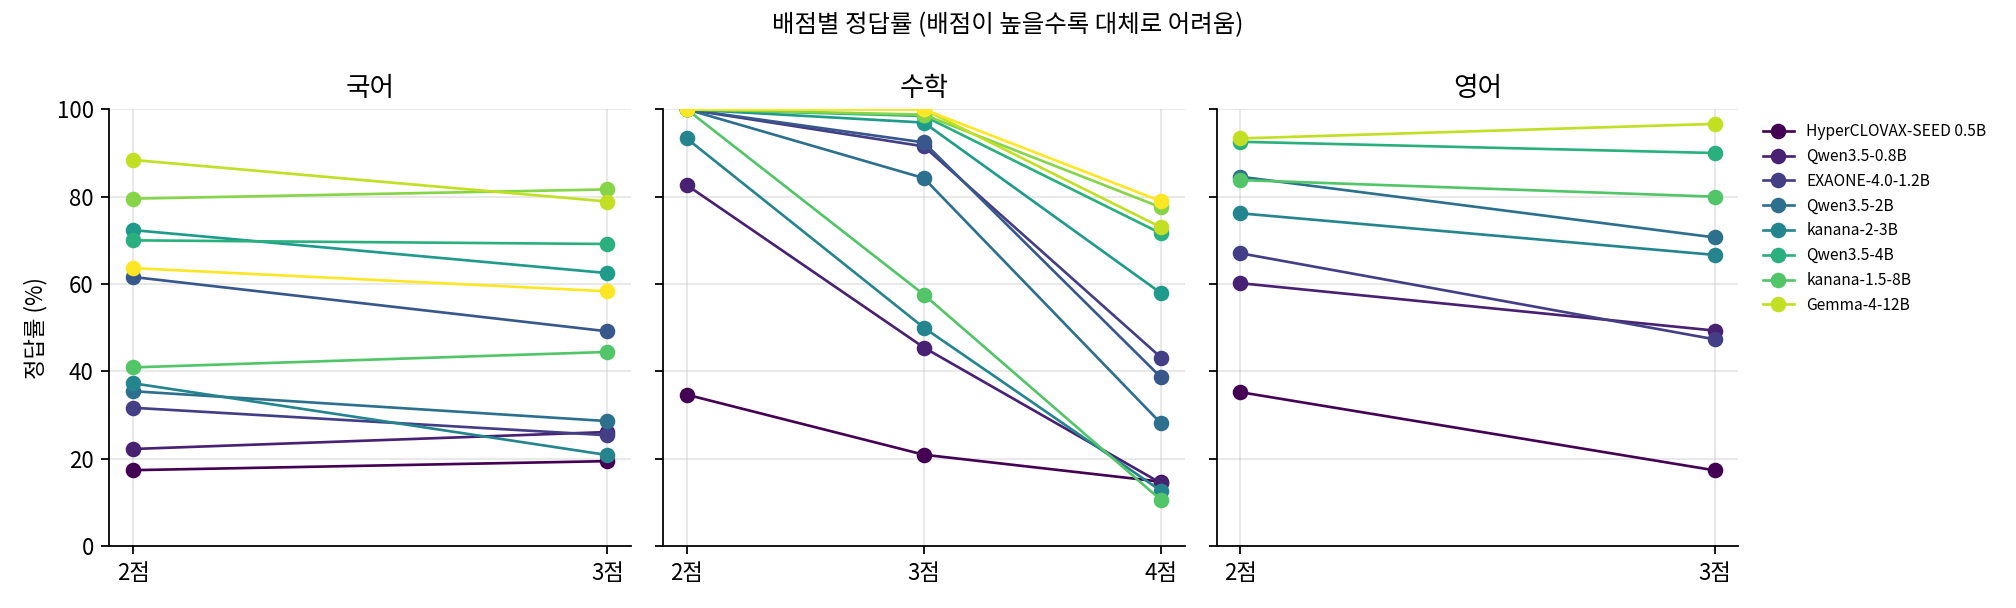
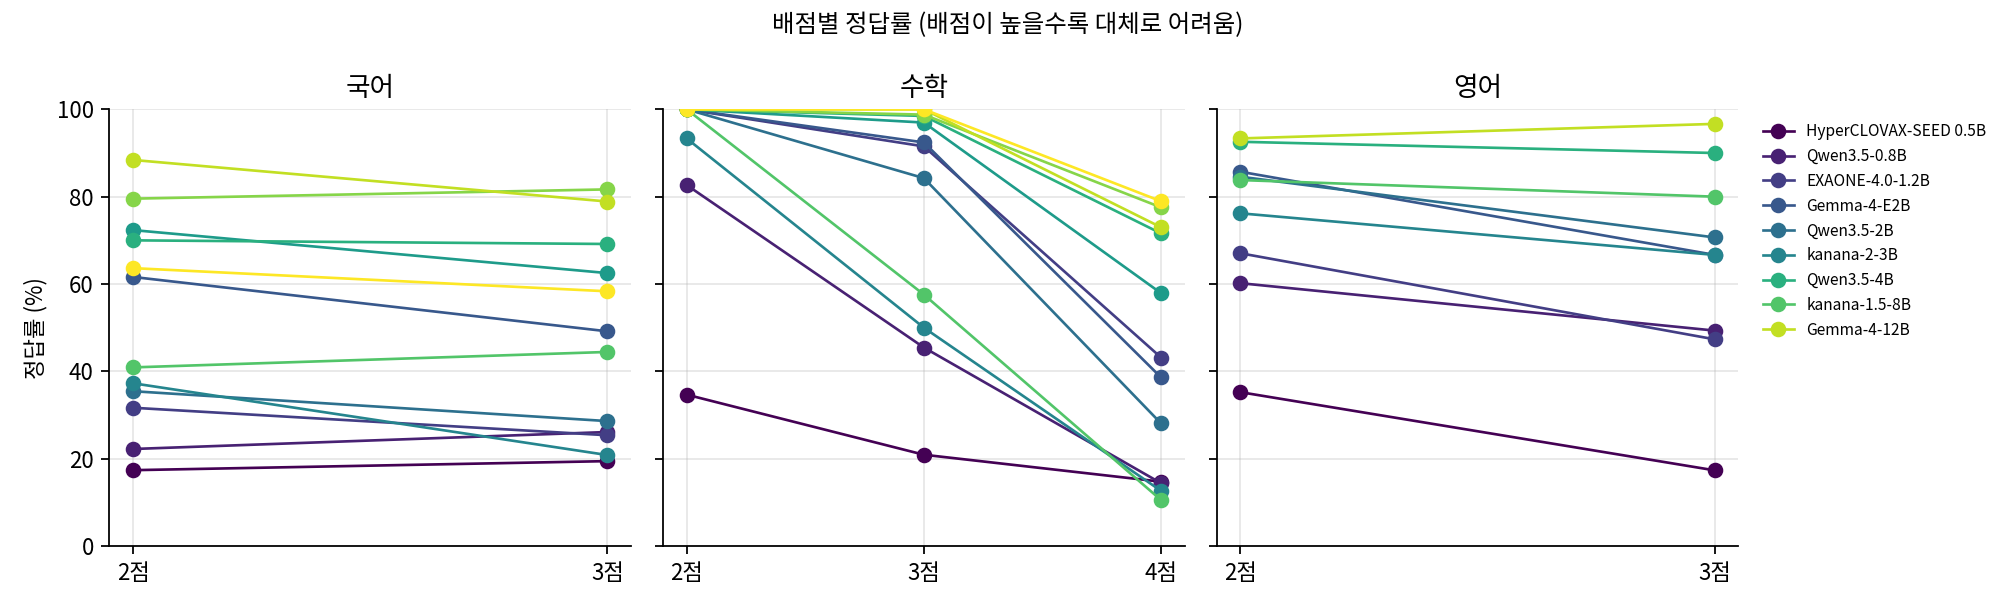
Update results (33 runs)

diff --git a/README.md b/README.md
@@ -12,7 +12,7 @@
 - **국어가 수학보다 어렵다.** 2B 이상 모델 기준으로 국어 정답률이 수학보다 평균 13%p 낮다. 2,000–4,000자 길이의 지문을 읽고 선택지 사이의 미묘한 차이를 가려내는 일이 작은 모델에게는 계산보다 어렵다.
 - **국산 모델**: HyperCLOVAX-SEED 0.5B(국어 18점, 수학 19점, 영어 30점), EXAONE-4.0-1.2B(국어 31점, 수학 75점, 영어 61점), kanana-2-3B(국어 34점, 수학 39점, 영어 73점), kanana-1.5-8B(국어 45점, 수학 42점, 영어 83점).
 
-> 마지막 업데이트: 2026-11-19 17:26 KST. 평가가 진행되는 동안 모델 하나가 끝날 때마다 이 페이지가 자동으로 갱신된다.
+> 마지막 업데이트: 2026-11-19 17:29 KST. 평가가 진행되는 동안 모델 하나가 끝날 때마다 이 페이지가 자동으로 갱신된다.
 
 ## 왜 소형 모델인가
 
@@ -84,7 +84,7 @@
 | HyperCLOVAX-SEED 0.5B | 네이버 | 0.57 | 보급형 스마트폰 | 18.0 <sub>(13–25)</sub> | 18.0 <sub>(16–19)</sub> | 17.5 <sub>(14–21)</sub> | 21.3 <sub>(17–24)</sub> | 18.0 <sub>(15–21)</sub> | 29.9 <sub>(28–34)</sub> |
 | Qwen3.5-0.8B | 알리바바 | 0.8 | 보급형 스마트폰 | 24.4 <sub>(18–32)</sub> | 22.9 <sub>(20–28)</sub> | 36.5 <sub>(35–39)</sub> | 36.3 <sub>(33–39)</sub> | 33.5 <sub>(31–36)</sub> | 56.9 <sub>(51–63)</sub> |
 | EXAONE-4.0-1.2B | LG AI연구원 | 1.28 | 보급형 스마트폰 | 31.2 <sub>(28–35)</sub> | 31.5 <sub>(27–35)</sub> | 77.6 <sub>(70–82)</sub> | 72.9 <sub>(63–82)</sub> | 73.5 <sub>(71–78)</sub> | 61.1 <sub>(61–62)</sub> |
-| Gemma-4-E2B | 구글 | 2.0 | 중급 스마트폰 | 67.9 <sub>(64–71)</sub> | 61.2 <sub>(59–63)</sub> | 75.0 <sub>(72–80)</sub> | 73.0 <sub>(69–77)</sub> | 76.3 <sub>(76–77)</sub> | — |
+| Gemma-4-E2B | 구글 | 2.0 | 중급 스마트폰 | 67.9 <sub>(64–71)</sub> | 61.2 <sub>(59–63)</sub> | 75.0 <sub>(72–80)</sub> | 73.0 <sub>(69–77)</sub> | 76.3 <sub>(76–77)</sub> | 80.0 <sub>(78–83)</sub> |
 | Qwen3.5-2B | 알리바바 | 2.0 | 보급형 스마트폰 | 33.6 <sub>(31–36)</sub> | 37.7 <sub>(34–42)</sub> | 64.7 <sub>(63–66)</sub> | 59.9 <sub>(56–65)</sub> | 62.1 <sub>(61–63)</sub> | 80.4 <sub>(78–82)</sub> |
 | kanana-2-3B | 카카오 | 3.0 | 중급 스마트폰 | 32.5 <sub>(30–34)</sub> | 36.0 <sub>(29–40)</sub> | 42.6 <sub>(29–54)</sub> | 38.9 <sub>(28–51)</sub> | 36.3 <sub>(25–49)</sub> | 73.3 <sub>(68–80)</sub> |
 | Gemma-4-E4B | 구글 | 4.0 | 중급 스마트폰 | 77.2 <sub>(69–83)</sub> | 73.3 <sub>(67–77)</sub> | 82.7 <sub>(80–84)</sub> | 79.3 <sub>(77–81)</sub> | 88.0 <sub>(84–92)</sub> | — |
@@ -134,7 +134,7 @@
 | HyperCLOVAX-SEED 0.5B | 0.18 / 0.09 / 0.50 / 0.10 / 946 | 0.20 / 0.10 / 0.59 / 0.09 / 1165 | 0.31 / 0.23 / 0.41 / 0.10 / 1116 |
 | Qwen3.5-0.8B | 0.23 / 0.14 / 0.46 / 0.46 / 12622 | 0.37 / 0.28 / 0.59 / 0.54 / 13733 | 0.58 / 0.54 / 0.18 / 0.18 / 9809 |
 | EXAONE-4.0-1.2B | 0.30 / 0.29 / 0.04 / 0.01 / 1520 | 0.72 / 0.70 / 0.18 / 0.14 / 6924 | 0.63 / 0.61 / 0.06 / 0.00 / 1123 |
-| Gemma-4-E2B | 0.59 / 0.58 / 0.00 / 0.00 / 1897 | 0.71 / 0.71 / 0.00 / 0.00 / 3471 | — |
+| Gemma-4-E2B | 0.59 / 0.58 / 0.00 / 0.00 / 1897 | 0.71 / 0.71 / 0.00 / 0.00 / 3471 | 0.81 / 0.81 / 0.00 / 0.00 / 1278 |
 | Qwen3.5-2B | 0.34 / 0.29 / 0.23 / 0.25 / 12221 | 0.63 / 0.59 / 0.37 / 0.37 / 10424 | 0.81 / 0.81 / 0.04 / 0.05 / 7274 |
 | kanana-2-3B | 0.34 / 0.33 / 0.00 / 0.00 / 176 | 0.39 / 0.39 / 0.01 / 0.00 / 596 | 0.74 / 0.74 / 0.00 / 0.00 / 135 |
 | Gemma-4-E4B | 0.70 / 0.69 / 0.02 / 0.00 / 1955 | 0.81 / 0.81 / 0.01 / 0.00 / 3955 | — |
